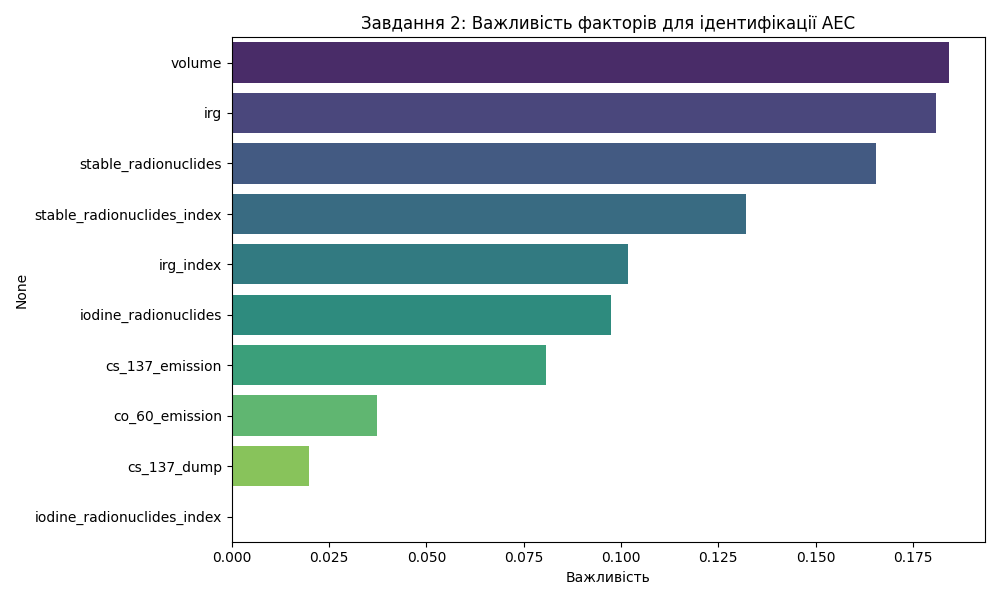
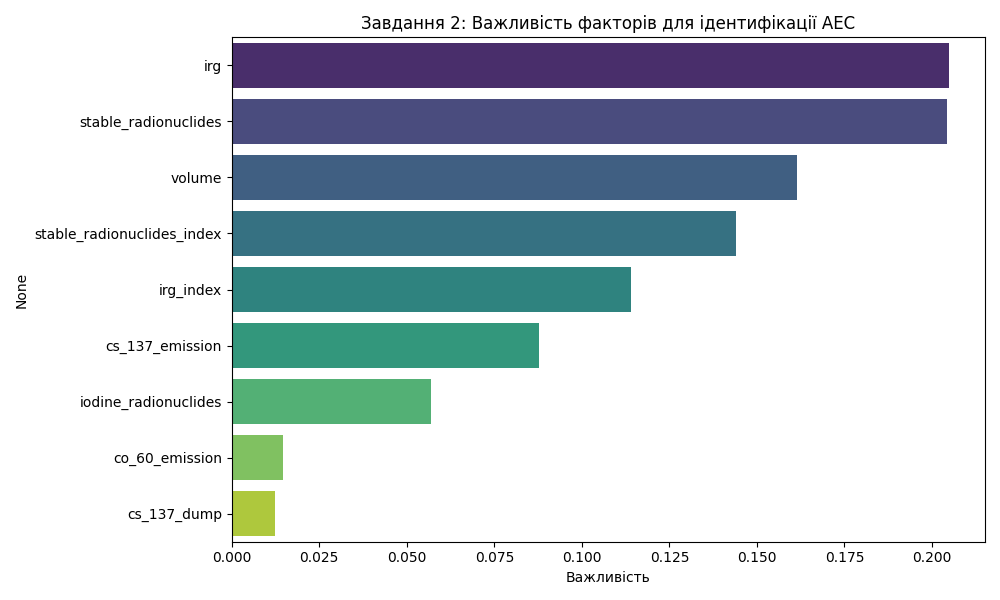
Created web service

diff --git a/web/app.py b/web/app.py
@@ -1,0 +1,143 @@
+import streamlit as st
+import json
+import os
+import pandas as pd
+from PIL import Image
+
+from dotenv import load_dotenv
+
+load_dotenv()
+
+BASE_DIR = os.path.dirname(os.path.abspath(__file__))
+
+load_dotenv(os.path.join(BASE_DIR, "..", ".env"))
+
+raw_reports_path = os.getenv('REPORTS_PATH', '../reports/files/').strip()
+raw_figures_path = os.getenv('FIGURES_DIR', '../reports/figures/').strip()
+
+REPORTS_PATH = os.path.abspath(os.path.join(BASE_DIR, raw_reports_path))
+FIGURES_PATH = os.path.abspath(os.path.join(BASE_DIR, raw_figures_path))
+
+def load_json(filename):
+    path = os.path.join(REPORTS_PATH, filename)
+    if os.path.exists(path):
+        with open(path, 'r', encoding='utf-8') as f:
+            return json.load(f)
+    return None
+
+def main():
+    st.set_page_config(page_title="Моніторинг АЕС", layout="wide")
+
+    st.sidebar.title("Навігація")
+    page = st.sidebar.radio("Оберіть розділ:",
+                            ["Головна", "Аналіз якості даних", "Результати дослідження", "Візуалізація"])
+
+    if page == "Головна":
+        st.title("🛡 Аналіз екологічної обстановки АЕС України")
+
+        st.markdown(f"""
+            ### 🎯 Мета проєкту
+            Дослідити динаміку радіоактивних викидів та скидів українських атомних електростанцій (2018–2025), 
+            виявити приховані закономірності та побудувати ML-моделі для аналізу екологічного стану.
+
+            ### 🔍 Ключові гіпотези аналізу:
+            1. **Пошук аномалій:** Виявлення кварталів з нетипово високим рівнем викидів, що можуть свідчити про технічні особливості експлуатації.
+            2. **«Цифровий відбиток» станцій:** Перевірка можливості ідентифікації конкретної АЕС за унікальним профілем нуклідів.
+            3. **Факторний аналіз:** Визначення домінуючих факторів, що мають критичний вплив на сумарний індекс безпеки.
+
+            ### 📊 Джерело даних
+            Дані отримані з **Єдиного державного порталу відкритих даних**.
+            """)
+
+        st.info("Проєкт реалізовано з використанням Python (Pandas, Scikit-learn) та методів Machine Learning.")
+
+    elif page == "Аналіз якості даних":
+        st.title("📊 Перевірка якості даних")
+        report = load_json('data_quality_report.json')
+
+        if report:
+            col1, col2, col3, col4 = st.columns(4)
+            col1.metric("Загалом записів", report['total_rows'])
+            col2.metric("Загалом ознак", report['total_columns'])
+            col3.metric("Кількість дублікатів", report['duplicates'])
+            col4.metric("Кількість пропущених значень", report['total_missing_values'])
+
+            st.divider()
+
+            c1, c2 = st.columns(2)
+            with c1:
+                st.subheader("🗓 Аналізовані роки")
+                st.write(", ".join(map(str, report['unique_years'])))
+            with c2:
+                st.subheader("🏢 Станції")
+                st.write(", ".join(report['unique_stations']))
+
+            st.subheader("Інформація про колонки")
+            st.dataframe(pd.DataFrame(report['columns_info']).T, use_container_width=True)
+        else:
+            st.error("Звіт про якість даних не знайдено.")
+
+    elif page == "Результати дослідження":
+        st.title("🧠 Дослідження та Статистика")
+
+        research = load_json('data_research_report.json')
+
+        if research:
+            with st.expander("📊 Повна описова статистика (натисніть, щоб розгорнути)"):
+                stats_df = pd.DataFrame(research['descriptive_stats']).T
+                st.dataframe(stats_df, use_container_width=True)
+
+            st.divider()
+
+            st.subheader("🏢 Порівняння станцій за середнім значенням обраного показника")
+            comp_df = pd.DataFrame(research['station_comparison']).T
+
+            metrics = [c for c in comp_df.columns if c not in ['year', 'quarter']]
+            selected_metric = st.selectbox("Оберіть показник для порівняння:", metrics)
+            st.bar_chart(comp_df[selected_metric])
+
+            st.divider()
+
+            st.subheader("🔗 Матриця кореляції між показниками")
+            corr_df = pd.DataFrame(research['correlations'])
+
+            st.dataframe(corr_df.style.background_gradient(cmap='RdBu_r', axis=None).format("{:.2f}"), use_container_width=True)
+            st.divider()
+
+            ml = research.get('ml_insights', {})
+            st.subheader("🔍 Результати ML дослідження")
+            c1, c2 = st.columns([1, 2])
+
+            with c1:
+                st.metric("Виявлено аномалій", ml.get('anomalies_found', 0))
+                st.write("**Вплив показників на формування загального індексу викидів (коефіцієнт кореляції):**")
+                st.json(ml.get('safety_index_impact', {}))
+
+            with c2:
+                st.write("**Важливість факторів (Feature Importance):**")
+                feat_imp = pd.Series(ml.get('feature_importance', {}))
+                st.bar_chart(feat_imp)
+
+        else:
+
+            st.error("Звіт дослідження не знайдено.")
+
+    elif page == "Візуалізація":
+        st.title("📈 Візуалізація результатів")
+        images = {
+            "1_anomalies.png": "Виявлені аномалії (Isolation Forest)",
+            "2_classification_importance.png": "Важливість факторів для ідентифікації АЕС",
+            "3_factor_impact.png": "Вплив нуклідів на загальну безпеку"
+        }
+
+        for file, desc in images.items():
+            img_path = os.path.join(FIGURES_PATH, file)
+            if os.path.exists(img_path):
+                st.subheader(desc)
+                st.image(Image.open(img_path))
+            else:
+                st.info(f"Очікується файл: {file}")
+
+
+if __name__ == "__main__":
+    main()

diff --git a/data_load/app.py b/data_load/app.py
@@ -6,6 +6,9 @@ from dotenv import load_dotenv
 
 load_dotenv()
 
+BASE_DIR = os.path.dirname(os.path.abspath(__file__))
+load_dotenv(os.path.join(BASE_DIR, "..", ".env"))
+
 def get_db_connection():
     db_path = os.getenv('DB_PATH')
     os.makedirs(os.path.dirname(db_path), exist_ok=True)
@@ -33,7 +36,7 @@ def prepare_data(df):
         df[col] = df[col].apply(clean_val)
 
     if 'co_60_dump' in df.columns:
-        df = df.drop(columns=['co_60_dump'])
+        df = df.drop(columns=['co_60_dump', 'iodine_radionuclides_index'])
 
     df = df.dropna()
 
@@ -101,4 +104,3 @@ if __name__ == "__main__":
         clean_df = prepare_data(raw_df)
         init_db(clean_df)
         load_data_to_db(clean_df)
-        

diff --git a/data_research/app.py b/data_research/app.py
@@ -9,9 +9,12 @@ from core.db_manager import get_data_from_db
 
 load_dotenv()
 
+BASE_DIR = os.path.dirname(os.path.abspath(__file__))
+load_dotenv(os.path.join(BASE_DIR, "..", ".env"))
+
 def prepare_task_datasets(df):
     numeric_features = [
-        'irg', 'irg_index', 'iodine_radionuclides', 'iodine_radionuclides_index',
+        'irg', 'irg_index', 'iodine_radionuclides',
         'stable_radionuclides', 'stable_radionuclides_index', 'cs_137_emission',
         'co_60_emission', 'cs_137_dump', 'volume'
     ]

diff --git a/visualization/app.py b/visualization/app.py
@@ -9,6 +9,9 @@ from data_research.app import run_data_research
 
 load_dotenv()
 
+BASE_DIR = os.path.dirname(os.path.abspath(__file__))
+load_dotenv(os.path.join(BASE_DIR, "..", ".env"))
+
 def run_visualizations():
     result = run_data_research()
     if result is None:

diff --git a/data_quality_analysis/app.py b/data_quality_analysis/app.py
@@ -8,6 +8,9 @@ from core.db_manager import get_data_from_db
 
 load_dotenv()
 
+BASE_DIR = os.path.dirname(os.path.abspath(__file__))
+load_dotenv(os.path.join(BASE_DIR, "..", ".env"))
+
 def run_quality_analysis():
     df = get_data_from_db()
 
